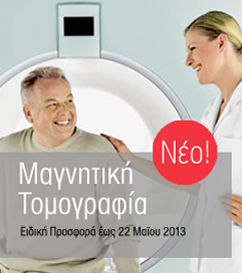
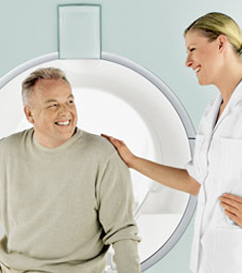
offer slider 2

diff --git a/template-homepage.html b/template-homepage.html
@@ -12,7 +12,7 @@
 
 
 <!-- Fonts -->
-<link href='//fonts.googleapis.com/css?family=Open+Sans+Condensed:300,300italic,700&subset=latin,greek' rel='stylesheet' type='text/css'>
+<link href='http://fonts.googleapis.com/css?family=Open+Sans+Condensed:300,300italic,700&subset=latin,greek' rel='stylesheet' type='text/css'>
 <!----------->
 
 <script src="js/vendor/custom.modernizr.js"></script>
@@ -107,12 +107,18 @@
 
       <li><img src="slices/offer.png" />
       <div class="orbit-caption">
+      <div class="OCBadge">
+        <div class="OCBadgeTitle">Νέο</div>
+      </div>
       <div class="OCTitle2">Αξονικός Τομογράφος</div>
       <div class="OCSubtitle2">Subtitle</div>
       </div>
       </li>
-      <li><img src="slices/offerB.png" />
+      <li><img src="slices/offer2.png" />
       <div class="orbit-caption">
+      <div class="OCBadge">
+        <div class="OCBadgeTitle">New</div>
+      </div>
       <div class="OCTitle2">Σεβασμός στον άνθρωπο</div>
       <div class="OCSubtitle2">Subtitle</div>
       </div>
@@ -193,7 +199,7 @@
      </div>
      <div class="large-6 columns">
          <div class="greenHomeBox1">
-            <div class="greenHomeBox1L"><a href="hallpage-65" target="_self"><img src="slices/pic-round2.png" alt="Για τον ιατρό" width="128" height="128" border="0"></a></div>
+            <div class="greenHomeBox1L"><a href="hallpage-65.html" target="_self"><img src="slices/pic-round2.png" alt="Για τον ιατρό" width="128" height="128" border="0"></a></div>
             <div class="greenHomeBox1R">
                <div class="boxHeading4"><a href="hallpage-65.html" title="Για τον Ιατρό" target="_self">Για τον Ιατρό</a></div>
                Πληροφορίες για τον επαγγελματία στο χώρο της υγείας όπως: Συμβεβλημένα ταμεία, διαγνωστικά πρωτόκολλα, επιλογή σκιαγραφικών, ενδιαφέροντα περιστατικά, επαγγελματική σταδιοδρομία, προετοιμασία εξετάσεων κ.α....
@@ -305,7 +311,7 @@
     </div>
     <br/>
     <div class="floatR">
-      <div class="credits">Papandreou ©2013 All Rights Reserved | Created by <a href="http://www.embryodesign.gr" title="Embryo Design" target="_blank">embryodesign</a></div>
+      <div class="credits">Papandreou ©2014 All Rights Reserved | Created by <a href="http://www.embryodesign.gr" title="Embryo Design" target="_blank">embryodesign</a></div>
     </div>
     <br/>
     <br/>

diff --git a/css/foundation.css b/css/foundation.css
@@ -3208,7 +3208,7 @@ label.error {
     list-style-type: none;
     margin: 0; }
     .slideshow-wrapper ul li,
-    .slideshow-wrapper ul li .orbit-caption {
+    .slideshow-wrapper ul li .orbit-caption .OCBadge{
       display: none; }
     .slideshow-wrapper ul li:first-child {
       display: block; }
@@ -3272,13 +3272,34 @@ label.error {
       .orbit-container .orbit-slides-container > * .orbit-caption {
         position: absolute;
         bottom: 0;
-        background-color: rgba(145,145, 145, 0.7);
+        background-color: rgba(145,145, 145, 0.8);
         /*color: white;*/
         /*width: 100%;*/
 	    height: 6.65em;
         padding: 10px 14px;
 		margin-bottom:15px;
         /*font-size: 0.875em; */}
+	  .OCBadge {
+	position: absolute;
+	bottom: 0;
+	background-color: rgba(242,52, 63, 0.9);
+	/*color: white;*/
+        /*width: 100%;*/
+	    
+    padding: 10px 10px;
+	margin:0 0 75px 160px;
+	/*font-size: 0.875em; */
+		
+	border-radius: 50%;
+	width: 4em;
+	height: 4em;
+    /* width and height can be anything, as long as they're equal */}
+   .OCBadgeTitle {
+	color:#fff;
+	font-size: 1.8em;
+	text-align:center;
+	margin-top: -3px;
+		 }
   .orbit-container .orbit-slide-number {
     position: absolute;
     top: 10px;

diff --git a/template-contact2.html b/template-contact2.html
@@ -291,7 +291,7 @@
     </div>
     <br/>
     <div class="floatR">
-      <div class="credits">Papandreou ©2013 All Rights Reserved | Created by <a href="http://www.embryodesign.gr" title="Embryo Design" target="_blank">embryodesign</a></div>
+      <div class="credits">Papandreou ©2014 All Rights Reserved | Created by <a href="http://www.embryodesign.gr" title="Embryo Design" target="_blank">embryodesign</a></div>
     </div>
     <br/>
     <br/>

diff --git a/template-page.html b/template-page.html
@@ -291,7 +291,7 @@
     </div>
     <br/>
     <div class="floatR">
-      <div class="credits">Papandreou ©2013 All Rights Reserved | Created by <a href="http://www.embryodesign.gr" title="Embryo Design" target="_blank">embryodesign</a></div>
+      <div class="credits">Papandreou ©2014 All Rights Reserved | Created by <a href="http://www.embryodesign.gr" title="Embryo Design" target="_blank">embryodesign</a></div>
     </div>
     <br/>
     <br/>

diff --git a/template-search.html b/template-search.html
@@ -266,7 +266,7 @@
     </div>
     <br/>
     <div class="floatR">
-      <div class="credits">Papandreou ©2013 All Rights Reserved | Created by <a href="http://www.embryodesign.gr" title="Embryo Design" target="_blank">embryodesign</a></div>
+      <div class="credits">Papandreou ©2014 All Rights Reserved | Created by <a href="http://www.embryodesign.gr" title="Embryo Design" target="_blank">embryodesign</a></div>
     </div>
     <br/>
     <br/>

diff --git a/css/medpap1.css b/css/medpap1.css
@@ -287,7 +287,7 @@
 	padding-top: 16px;
 }
 .OCSubtitle {
-	font-size: 0.8em;
+	font-size: 0.9em;
 	color: #000;
 	margin-top: -8px
 }
@@ -298,7 +298,7 @@
 	line-height: 1em;
 }
 .OCSubtitle2 {
-	font-size: 0.8em;
+	font-size: 0.9em;
 	color: #000;
 	margin-top: 2px
 }
